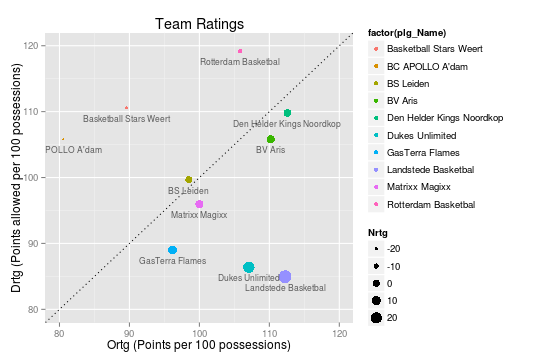
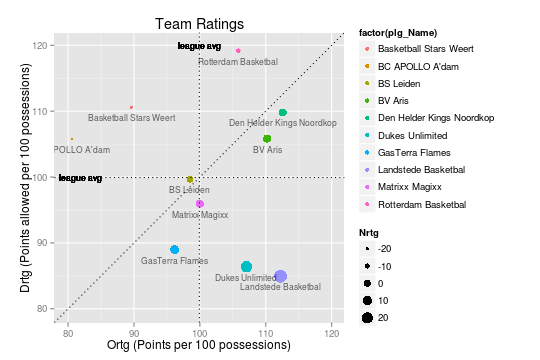
Updated report files

diff --git a/site/pages/reports/2013-2014/teamindicators_regular_season.rst b/site/pages/reports/2013-2014/teamindicators_regular_season.rst
@@ -43,8 +43,11 @@ The following teams are in this competition:
 
 
 
-Ratings and Pace
-----------------
+Ratings
+-------
+
+The average offensive and defensive ratings for all teams are pictured below,
+in the quadrant plot descibed by Kevin Pelton in [Pelton2012]_.
 
 
 .. figure:: figure/rating-quadrant.png
@@ -73,6 +76,9 @@ Ratings and Pace
 
     
 
+
+Pace
+----
 
 
 .. figure:: figure/pace-by-team.png
@@ -113,8 +119,10 @@ The correlation matrix for the four factors and the net rating is displayed belo
 
 
 
-By Team
+Offense
 ^^^^^^^
+
+This shows the four factors for each of the teams.
 
 
 .. figure:: figure/efg-by-team.png
@@ -144,8 +152,10 @@ By Team
     
 
 
-By Opponent
-^^^^^^^^^^^
+Defense
+^^^^^^^
+
+This shows the four factors of the team's opponents for each of the teams.
 
 
 .. figure:: figure/opp-efg-by-team.png
